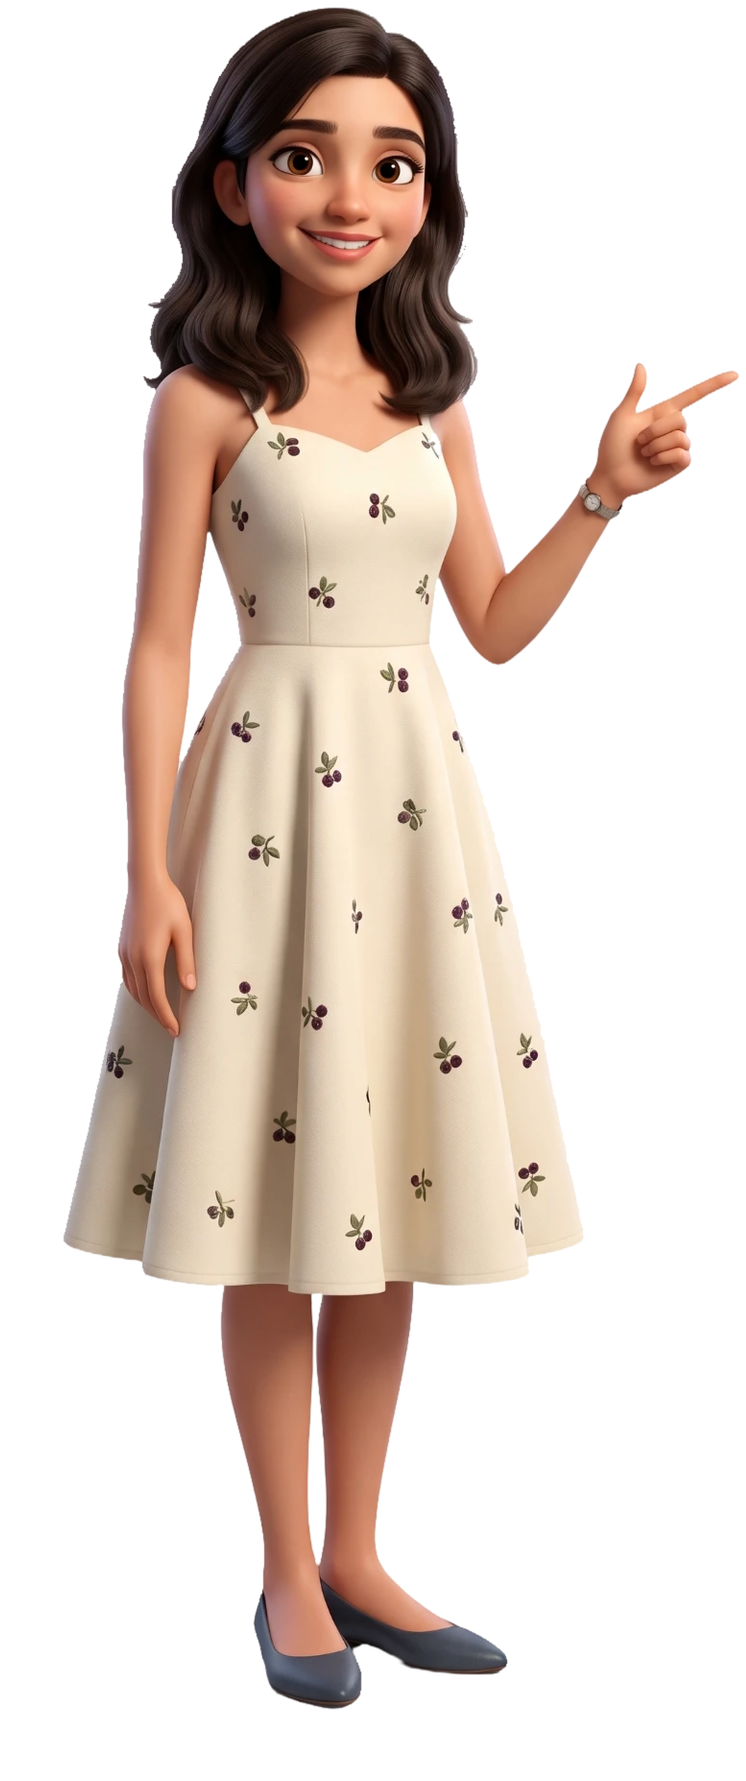
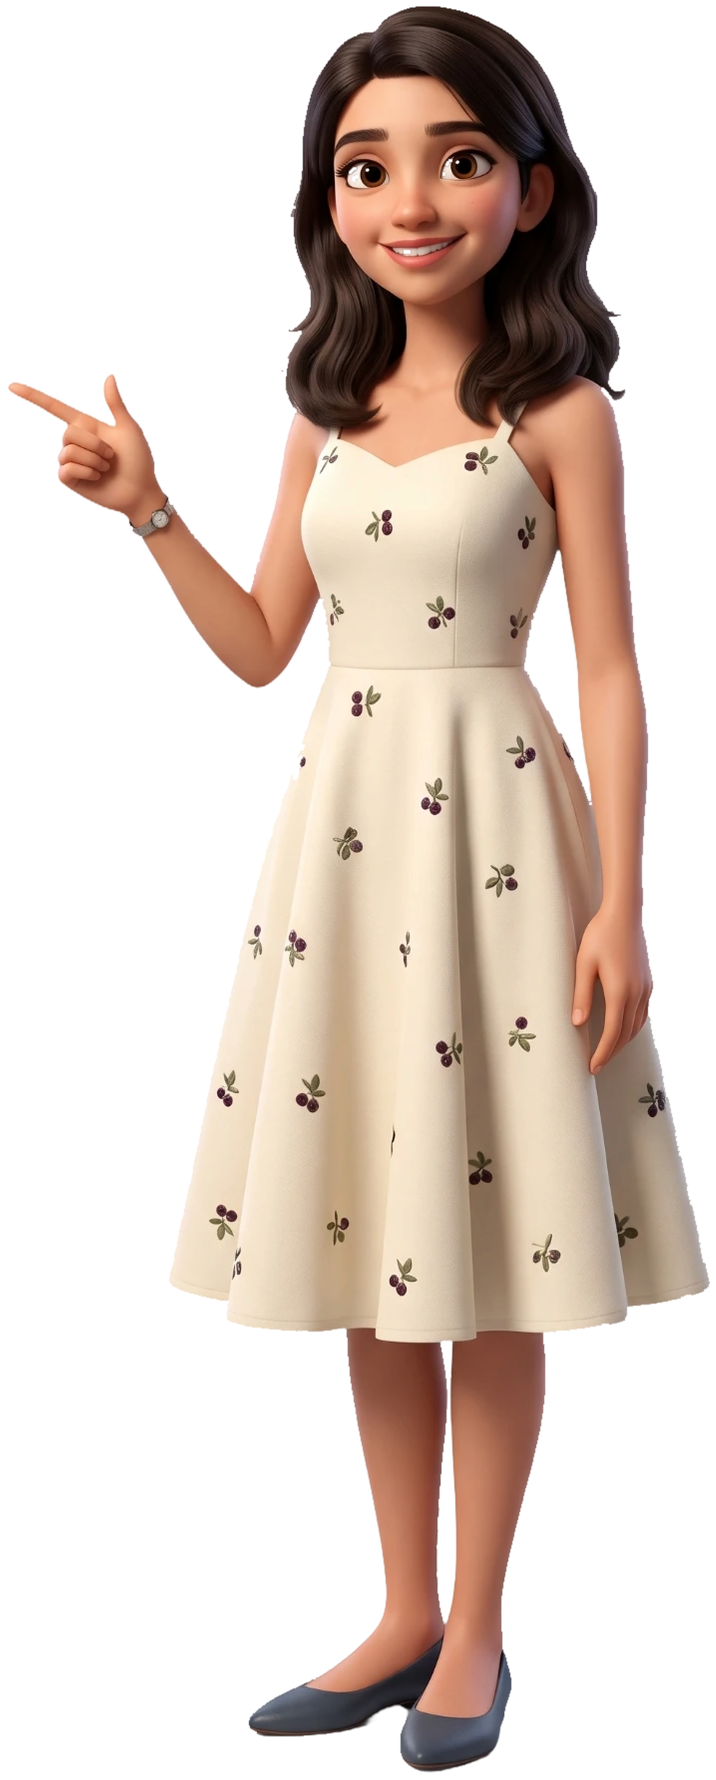
Fix ghost forearm, add 10s auto-transition to the new pointing pose
- Root cause of the ghost: an underlay copy of the original forearm left in the body layer; body now has the arm fully removed and moving layers overlap by a few px
- Edge de-fringe in the cut-out step (pale lilac halo)
- New pointing pose (pose-12) replaces the old one; aligned by figure height so nothing jumps
- One-shot 10 s timer: hello/wave -> pointing, 700ms cross-fade, point image preloaded

Claude-Session: https://claude.ai/code/session_01SP3KkWj74ZCnNCxd1XuGnQ

diff --git a/src/components/Character.tsx b/src/components/Character.tsx
@@ -59,7 +59,9 @@ export function Character() {
   const { state, sleepBubble } = useCharacterMachine();
   const id = useId().replace(/:/g, "");
   const root = useRef<HTMLDivElement>(null);
-  const [pose, setPose] = useState<PoseName>("hello");
+  const [hover, setHover] = useState<PoseName | null>(null);
+  const [settled, setSettled] = useState(false);          // flips once, 10 s after the hero loads
+  const pose: PoseName = hover ?? (settled ? "point" : "hello");
   preload(RIG.src, { as: "image", fetchPriority: "high" });
 
   /* motion values: updated outside React, so tracking never re-renders */
@@ -83,12 +85,19 @@ export function Character() {
 
   /* pose changes come from the navigation (hover) via a window event */
   useEffect(() => {
-    const onPose = (e: Event) => setPose(((e as CustomEvent<PoseName | null>).detail ?? "hello"));
+    const onPose = (e: Event) => setHover(((e as CustomEvent<PoseName | null>).detail ?? null));
     window.addEventListener("character-pose", onPose);
     return () => window.removeEventListener("character-pose", onPose);
   }, []);
+
+  /* one timer, started when the hero mounts: after 10 s the pointing pose becomes the resting pose (never loops) */
   useEffect(() => {
-    const a = animate(baseOpacity, pose === "hello" ? 1 : 0, { duration: reduce ? 0 : 0.55, ease: "easeInOut" });
+    const warm = new Image(); warm.src = RIG.poses.point.src; warm.decode?.().catch(() => {});   // preload so the fade never waits on the network
+    const t = setTimeout(() => setSettled(true), 10_000);
+    return () => clearTimeout(t);
+  }, []);
+  useEffect(() => {
+    const a = animate(baseOpacity, pose === "hello" ? 1 : 0, { duration: reduce ? 0 : 0.7, ease: "easeInOut" });
     if (pose !== "hello") { gxT.set(0); gyT.set(0); }
     return () => a.stop();
   }, [pose, reduce, baseOpacity, gxT, gyT]);
@@ -147,7 +156,7 @@ export function Character() {
     if (w.amp < 0.002 && tAmp === 0) { elbowRot.set(0); wristRot.set(0); fingerRot.set(0); return; }
     w.phase += dt * w.freq * Math.PI * 2;
     const sw = (lag: number) => Math.sin(w.phase - lag) + 0.18 * Math.sin(2 * (w.phase - lag) + 0.7); // slightly asymmetric, less mechanical
-    elbowRot.set(w.amp * 4 * sw(0));
+    elbowRot.set(w.amp * 1.8 * sw(0));
     wristRot.set(w.amp * 9 * sw(0.85));
     fingerRot.set(w.amp * 4 * sw(1.7));
   });
@@ -207,9 +216,9 @@ export function Character() {
             const fade = p.fadeBottom ? `linear-gradient(to bottom, #000 ${((p.bottom - 60) / H) * 100}%, transparent ${(p.bottom / H) * 100}%)` : undefined;
             return (
               // eslint-disable-next-line @next/next/no-img-element
-              <motion.img key={n} src={p.src} width={W} height={H} alt="" aria-hidden loading="lazy" decoding="async" draggable={false}
+              <motion.img key={n} src={p.src} width={W} height={H} alt="" aria-hidden loading="eager" fetchPriority="low" decoding="async" draggable={false}
                 className="pointer-events-none absolute inset-0 h-full w-full select-none" initial={{ opacity: 0 }} animate={{ opacity: pose === n ? 1 : 0 }}
-                transition={{ duration: reduce ? 0 : 0.55, ease: "easeInOut" }} style={fade ? { WebkitMaskImage: fade, maskImage: fade } : undefined} />
+                transition={{ duration: reduce ? 0 : 0.7, ease: "easeInOut" }} style={fade ? { WebkitMaskImage: fade, maskImage: fade } : undefined} />
             );
           })}
         </motion.div>

diff --git a/src/lib/characterRig.ts b/src/lib/characterRig.ts
@@ -1,17 +1,17 @@
 // GENERATED by scripts/make_poses.py — do not edit by hand.
 export const RIG = {
-  "w": 746,
-  "h": 1781,
+  "w": 716,
+  "h": 1780,
   "poses": {
     "point": {
       "src": "/images/character/mital-point.webp",
       "fadeBottom": false,
-      "bottom": 1710
+      "bottom": 1773
     },
     "think": {
       "src": "/images/character/mital-think.webp",
       "fadeBottom": true,
-      "bottom": 1400
+      "bottom": 1399
     }
   },
   "src": "/images/character/mital.webp",
@@ -21,34 +21,34 @@ export const RIG = {
     "palm": "/images/character/mital-palm.webp",
     "fingers": "/images/character/mital-fingers.webp",
     "elbow": [
-      21.448,
-      34.363
+      31.983,
+      34.326
     ],
     "wrist": [
-      15.818,
-      26.39
+      26.117,
+      26.348
     ],
     "knuckle": [
-      13.405,
-      21.673
+      23.603,
+      21.629
     ]
   },
-  "cutTop": 365,
-  "cutBottom": 395,
+  "cutTop": 364,
+  "cutBottom": 394,
   "pivot": [
-    351,
-    360
+    420,
+    359
   ],
   "eyes": {
     "a": {
       "iris": {
-        "cx": 301.5,
-        "cy": 170,
+        "cx": 370.5,
+        "cy": 169,
         "r": 12.2
       },
       "open": {
-        "cx": 297,
-        "cy": 169.5,
+        "cx": 366,
+        "cy": 168.5,
         "rx": 23,
         "ry": 14,
         "rot": 0
@@ -61,13 +61,13 @@ export const RIG = {
     },
     "b": {
       "iris": {
-        "cx": 392.5,
-        "cy": 161,
+        "cx": 461.5,
+        "cy": 160,
         "r": 12.2
       },
       "open": {
-        "cx": 395.5,
-        "cy": 160,
+        "cx": 464.5,
+        "cy": 159,
         "rx": 24,
         "ry": 13.5,
         "rot": 0
@@ -80,7 +80,7 @@ export const RIG = {
     }
   },
   "face": [
-    347,
-    165
+    416,
+    164
   ]
 } as const;

diff --git a/src/components/Nav.tsx b/src/components/Nav.tsx
@@ -5,8 +5,8 @@ import { Menu, X } from "lucide-react";
 import { NAV } from "@/lib/content";
 import { scrollToId, NAV_OFFSET } from "@/lib/scroll";
 
-const POSE_FOR: Record<string, string> = { home: "hello", about: "think", work: "point", experience: "hello", skills: "point", contact: "hello" };
-const setPose = (id: string | null) => window.dispatchEvent(new CustomEvent("character-pose", { detail: id ? POSE_FOR[id] : "hello" }));
+const POSE_FOR: Record<string, string> = { about: "think" };
+const setPose = (id: string | null) => window.dispatchEvent(new CustomEvent("character-pose", { detail: id ? (POSE_FOR[id] ?? null) : null }));
 
 export function Nav() {
   const [active, setActive] = useState("home");

diff --git a/scripts/make_poses.py b/scripts/make_poses.py
@@ -25,10 +25,16 @@ for name, p in cfg["poses"].items():
 # --- common canvas in BASE-pose pixel space -------------------------------------------------
 base = cfg["base"]; bm, bd = eye_mid(cfg["poses"][base])
 placed = {}  # name -> (RGBA image scaled, offset x, y in base space)
+def bbox_h(im):
+    a = np.array(im)[..., 3] > 128; ys, xs = np.where(a); return ys.min(), ys.max()
+bt, bb_ = bbox_h(cuts[base])
 for name, p in cfg["poses"].items():
     m, d = eye_mid(p); s = bd / d
+    if p.get("align") == "height":      # same figure height as the base; horizontally by the face centre
+        t, b_ = bbox_h(cuts[name]); s = (bb_ - bt) / (b_ - t)
     im = cuts[name]; im = im.resize((round(im.width * s), round(im.height * s)), Image.LANCZOS)
     ox, oy = bm[0] - m[0] * s, bm[1] - m[1] * s
+    if p.get("align") == "height": oy = bt - t * s
     placed[name] = (im, ox, oy, s)
 def bb(im): return im.getchannel("A").point(lambda v: 255 if v > 8 else 0).getbbox()
 x0 = y0 = 1e9; x1 = y1 = -1e9
@@ -50,15 +56,21 @@ for name in cfg["poses"]:
     bbx = bb(c); rig["poses"][name] = {"src": f"/images/character/mital-{name}.webp", "fadeBottom": bool(cfg["poses"][name].get("cropped", False)), "bottom": bbx[3]}
 
 # base: segmented raised arm (elbow -> wrist -> knuckles), full-canvas sprites so every layer shares one coordinate space
-A = cfg["arm"]; arr = np.array(base_c).astype(np.float32)
+A = json.loads(json.dumps(cfg["arm"]))
+A["boundary"] = [[px - x0, py - y0] for px, py in A["boundary"]]; A["bodyErase"] = A["bodyErase"] - y0
+for _k in ("elbow", "wrist", "knuckle"):
+    A[_k]["pivot"] = [A[_k]["pivot"][0] - x0, A[_k]["pivot"][1] - y0]; A[_k]["line"] -= y0
+arr = np.array(base_c).astype(np.float32)
 ys_ = np.arange(H, dtype=np.float32)[:, None] * np.ones((1, W), np.float32)
-region = poly_mask((W, H), [[px, py] for px, py in A["boundary"]])
+region = poly_mask((W, H), [[px, py] for px, py in A["boundary"]])           # what leaves the body
+grow = A.get("spriteGrow", 7)                                                  # moving layers overlap the body by a few px -> no hairline gap at the seam
+region_spr = poly_mask((W, H), [[px + (grow if px > 20 else 0), py] for px, py in A["boundary"]])
 def ramp_out(line, fade):  # 1 above the joint line, fading to 0 below it
     return np.clip(1 - (ys_ - line) / fade, 0, 1)
 e, w_, k_ = A["elbow"], A["wrist"], A["knuckle"]
-a_fingers = region * (ys_ < k_["line"] + k_["fade"]) * ramp_out(k_["line"], k_["fade"])
-a_palm = region * (ys_ >= k_["line"]) * (ys_ < w_["line"] + w_["fade"]) * ramp_out(w_["line"], w_["fade"]) * 0 + region * (ys_ >= k_["line"]) * (ys_ < w_["line"]) + region * (ys_ >= w_["line"]) * (ys_ < w_["line"] + w_["fade"]) * ramp_out(w_["line"], w_["fade"])
-a_fore = region * (ys_ >= w_["line"]) * (ys_ < e["line"]) + region * (ys_ >= e["line"]) * (ys_ < e["line"] + e["fade"]) * ramp_out(e["line"], e["fade"])
+a_fingers = region_spr * (ys_ < k_["line"] + k_["fade"]) * ramp_out(k_["line"], k_["fade"])
+a_palm = region_spr * (ys_ >= k_["line"]) * (ys_ < w_["line"]) + region_spr * (ys_ >= w_["line"]) * (ys_ < w_["line"] + w_["fade"]) * ramp_out(w_["line"], w_["fade"])
+a_fore = region_spr * (ys_ >= w_["line"]) * (ys_ < e["line"]) + region_spr * (ys_ >= e["line"]) * (ys_ < e["line"] + e["fade"]) * ramp_out(e["line"], e["fade"])
 a_body = 1 - region * (ys_ < A.get("bodyErase", e["line"]))  # arm removed from the body only where background (not upper arm) lies behind it
 def sprite(a, name, **kw):
     o = arr.copy(); o[..., 3] = arr[..., 3] * a

diff --git a/scripts/make_character.py b/scripts/make_character.py
@@ -48,6 +48,10 @@ def cutout(img: Image.Image, use_rembg: bool) -> Image.Image:
     # leftovers of a baked-in grey/white checkerboard: neutral (no colour cast) mid-light pixels that are still semi-transparent
     neutral = ((arr.max(axis=2) - arr.min(axis=2)) < 10) & (arr.min(axis=2) > 140)
     a = np.where(neutral & (a < 0.97), 0.0, a)
+    # pale lilac/grey fringe: low-saturation light pixels on the soft edge (backdrop bleeding into skin/hair edges)
+    fringe = ((arr.max(axis=2) - arr.min(axis=2)) < 30) & (arr.min(axis=2) > 150) & (arr[..., 0] < 235)
+    edge = (a > 0.02) & (a < 0.985)
+    a = np.where(fringe & edge, 0.0, a)
     # tighten soft alpha so no pale haze survives, then 1px inward trim + soften
     t = np.clip((a - 0.14) / 0.72, 0, 1)
     a = t * t * (3 - 2 * t)
